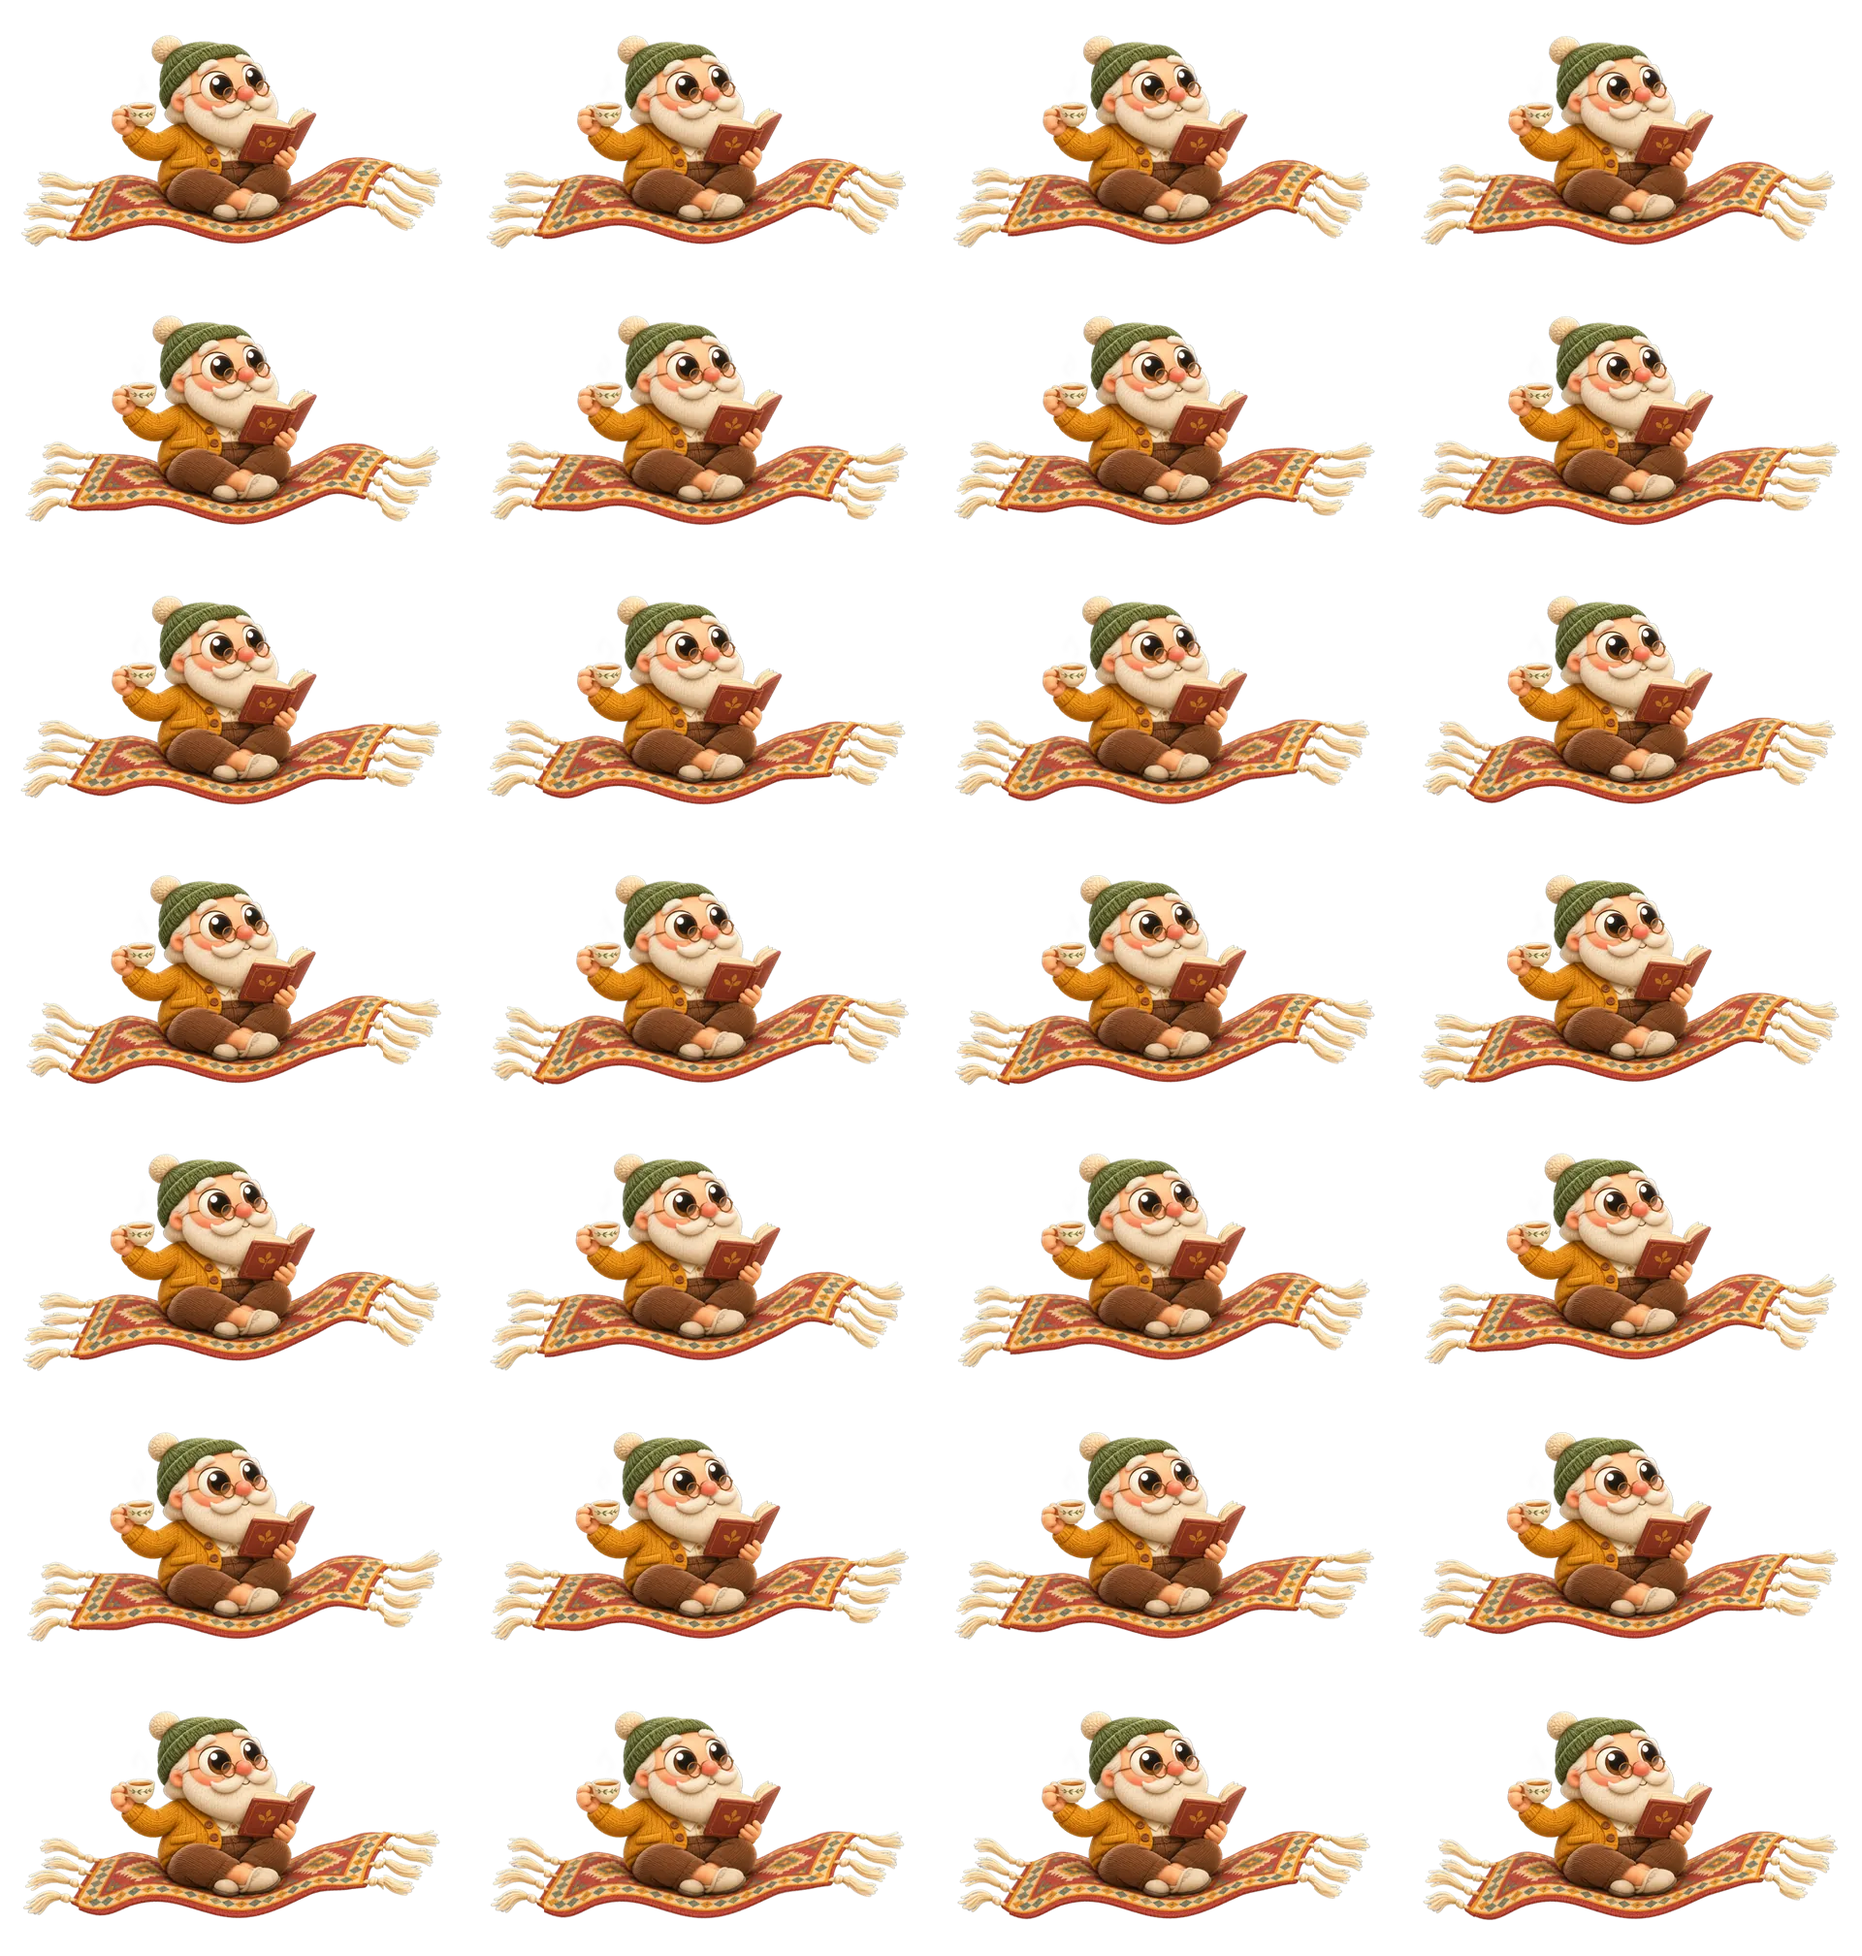
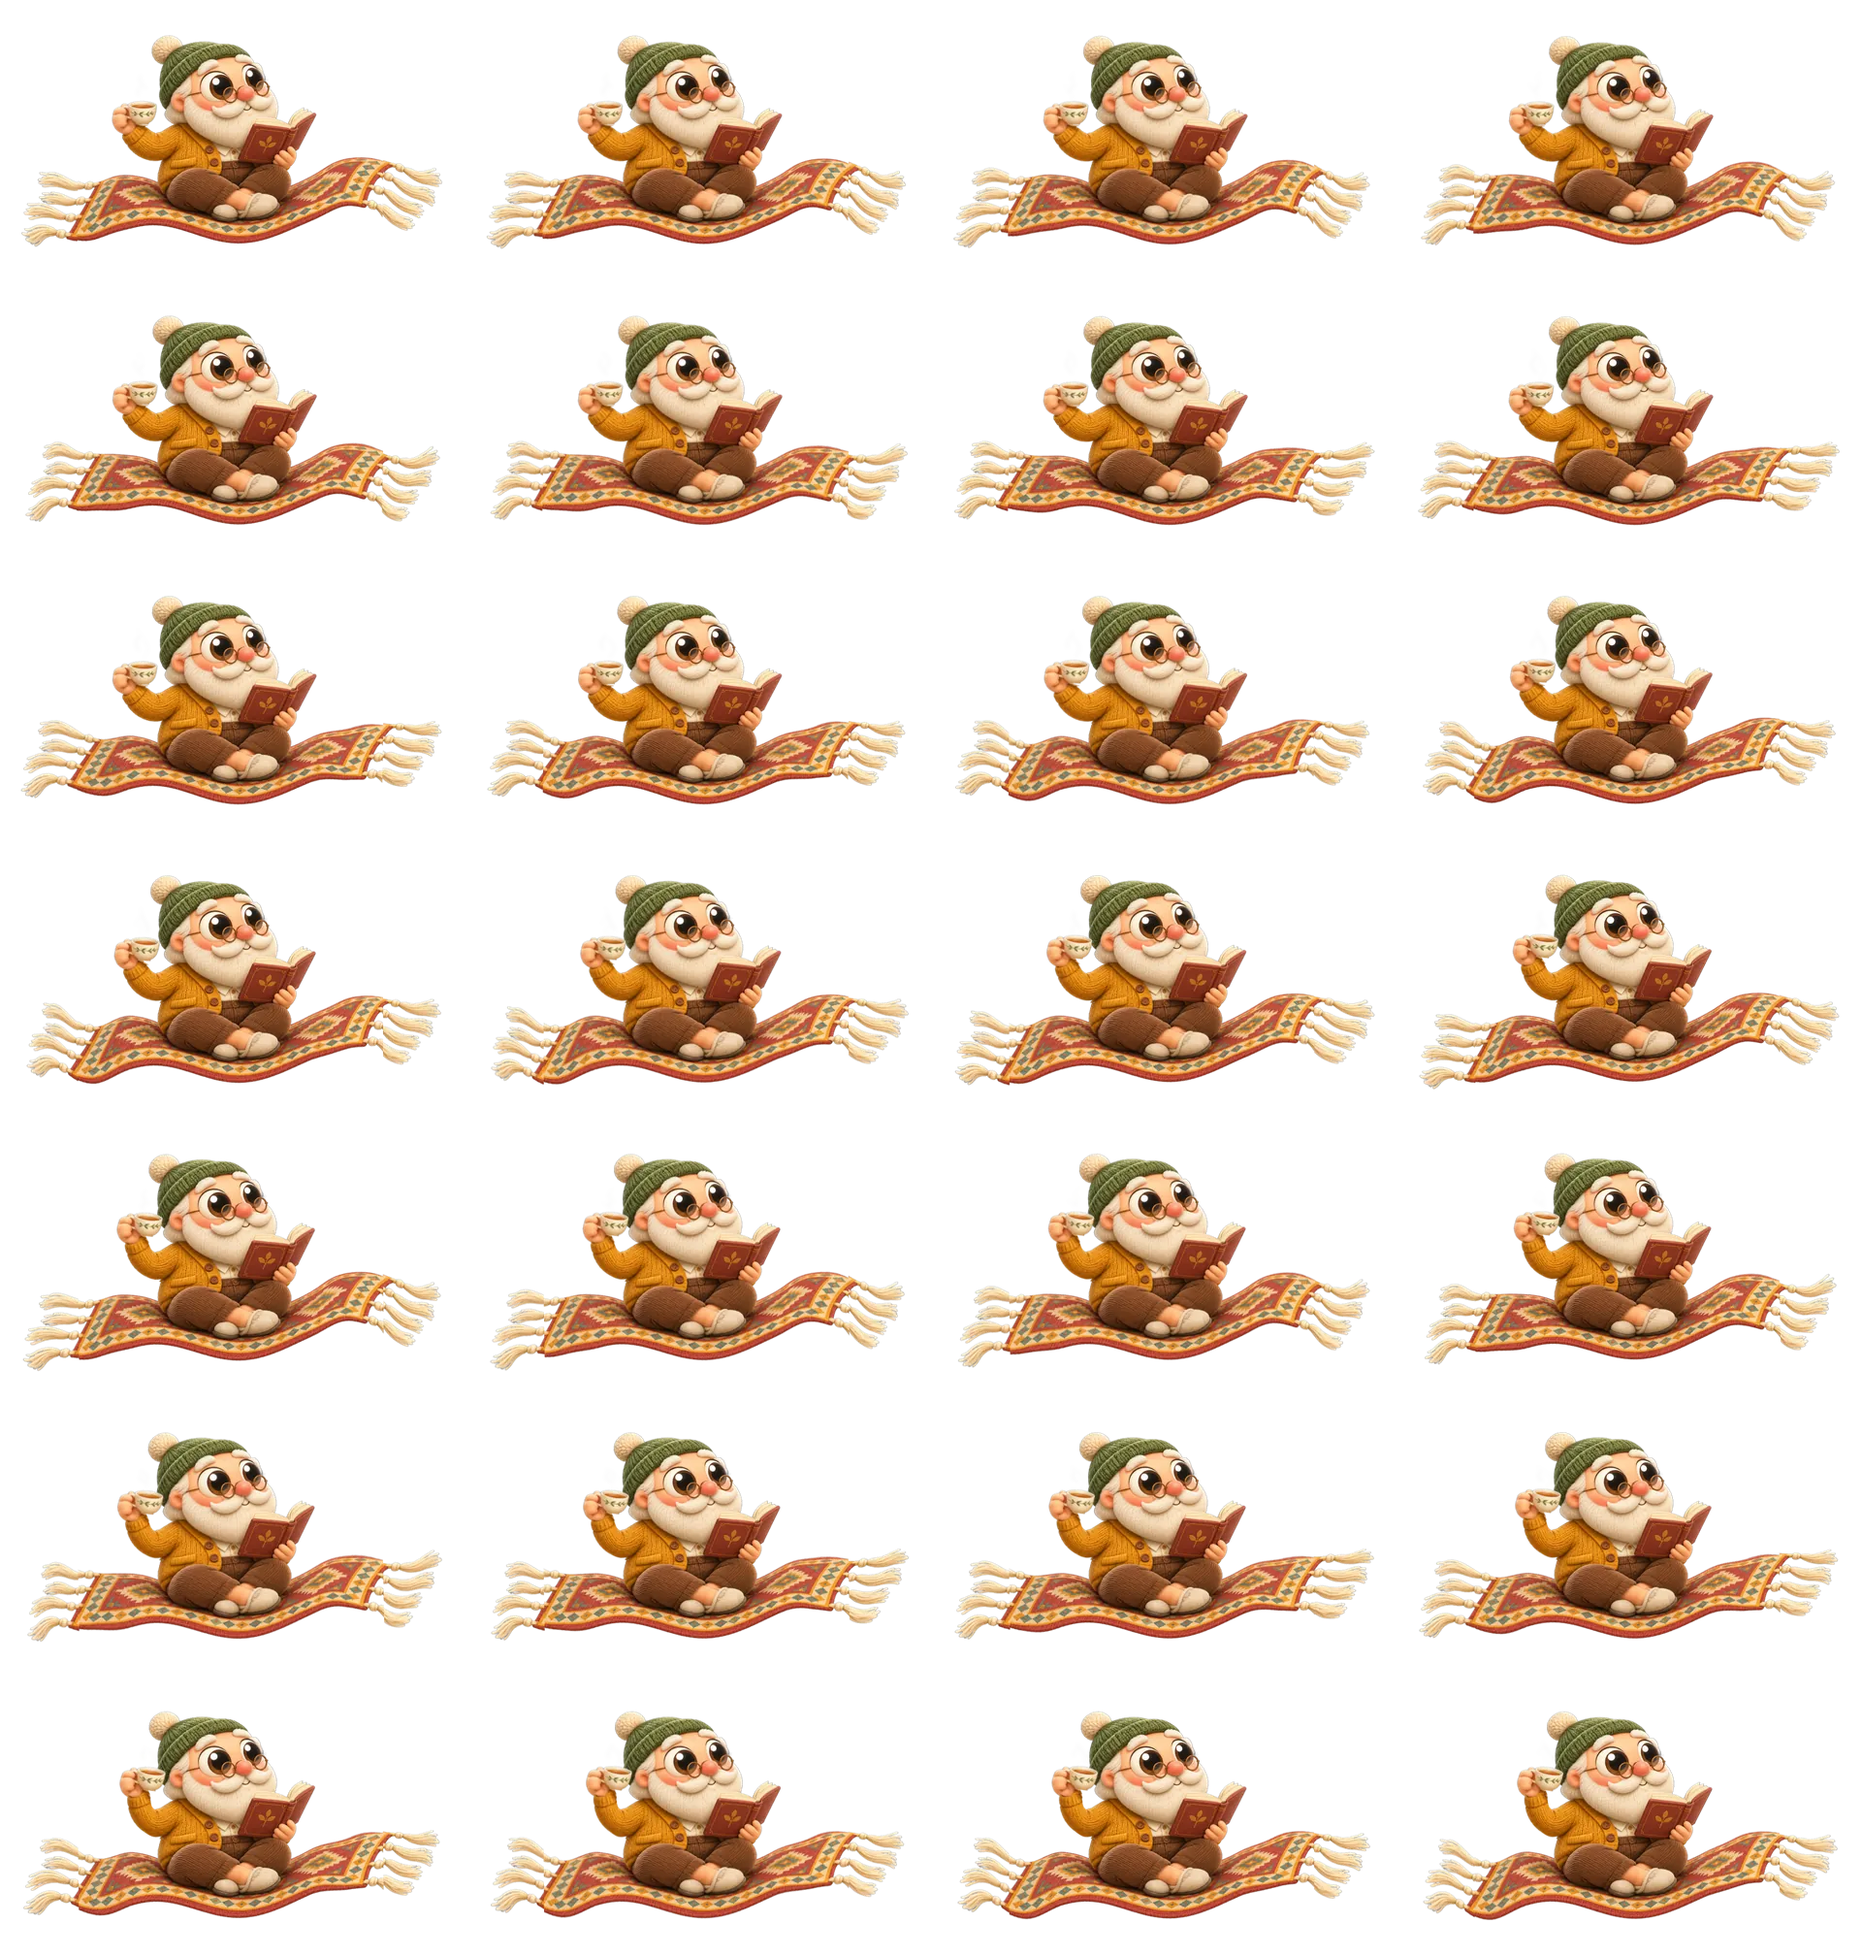
0.26.0: the witch's passengers sit still before her cape; the grandfather raises his cup once a lap
New sheets from the art direction: the same shape for the witch, and sixty frames in three pages for the grandfather.

diff --git a/CHANGELOG.md b/CHANGELOG.md
@@ -3,7 +3,8 @@
 ## 0.26.0
 
 - Two new Surprises that fly across the screen, by the art direction: the witch on her broom, taking the robin, the frog and
-  the bee for a ride, with a trail of stars; and the grandfather on his flying carpet, reading with his cup of tea. They only
+  the bee for a ride, with a trail of stars; and the grandfather on his flying carpet, reading, who raises his cup of tea
+  in a toast once a lap. They only
   cross: the engine loops their one state from out of sight on one side to out on the other. A centre that had chosen
   every Surprise gets them too.
 
